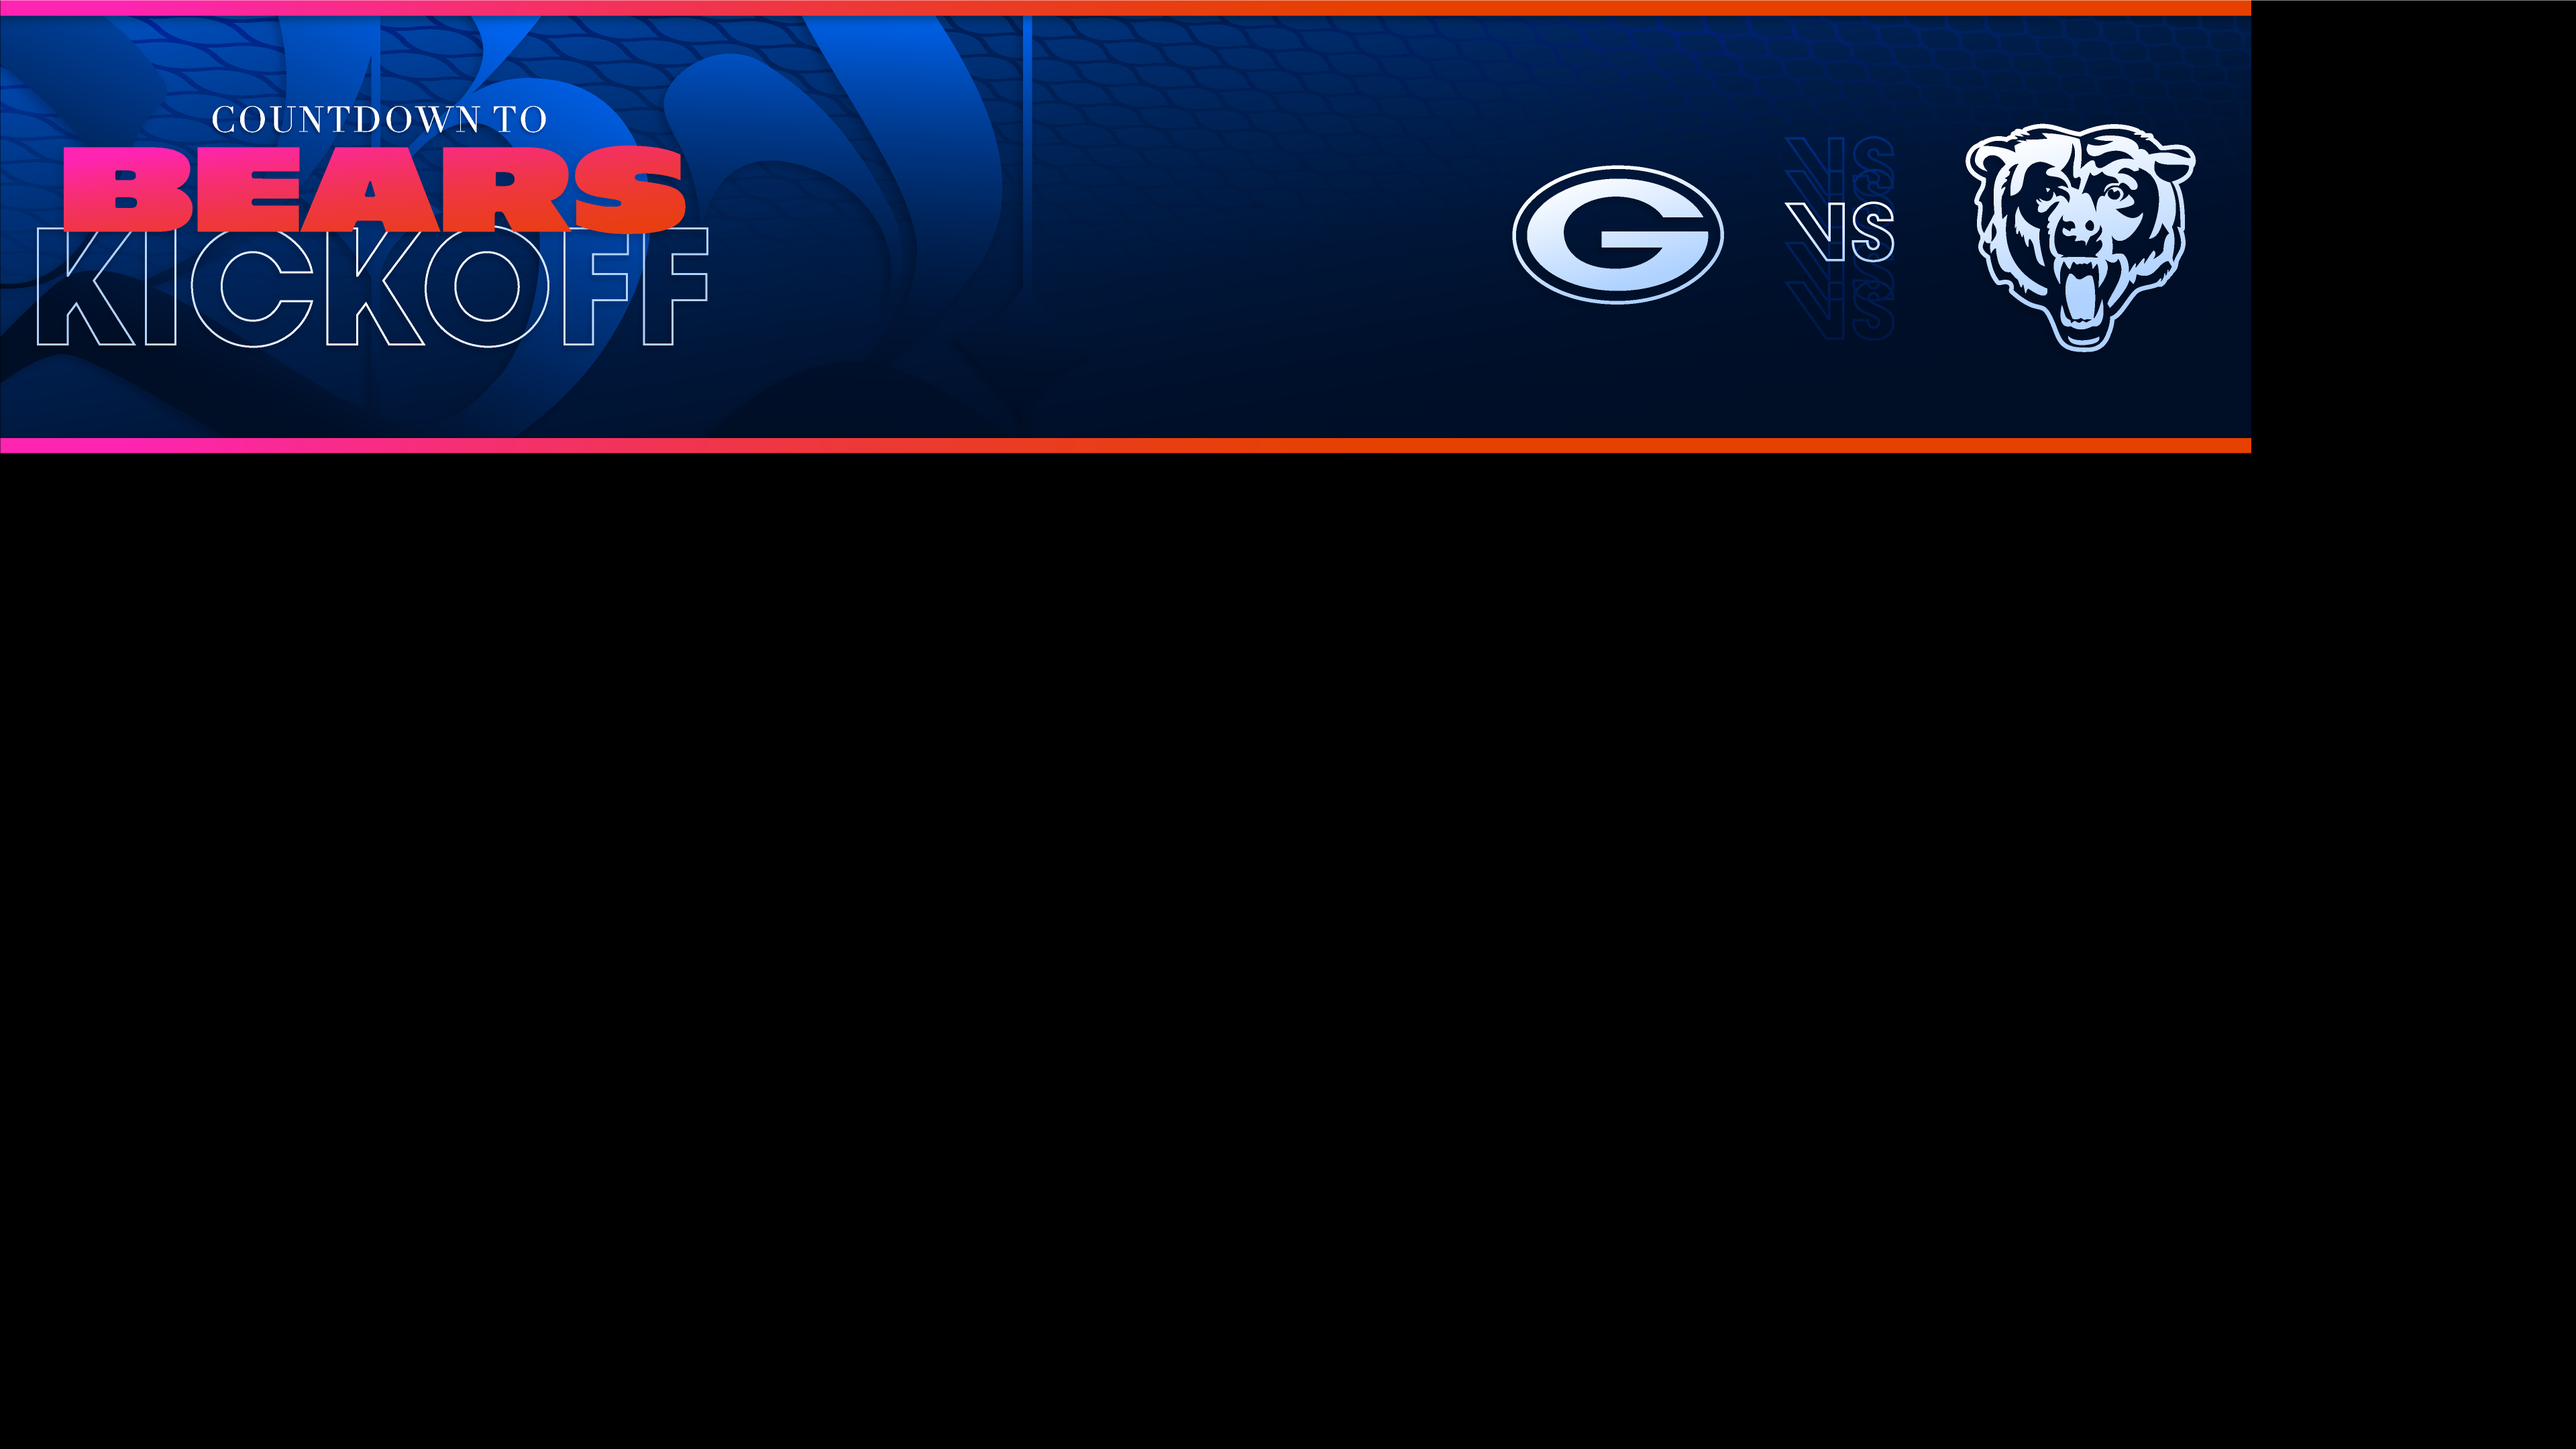
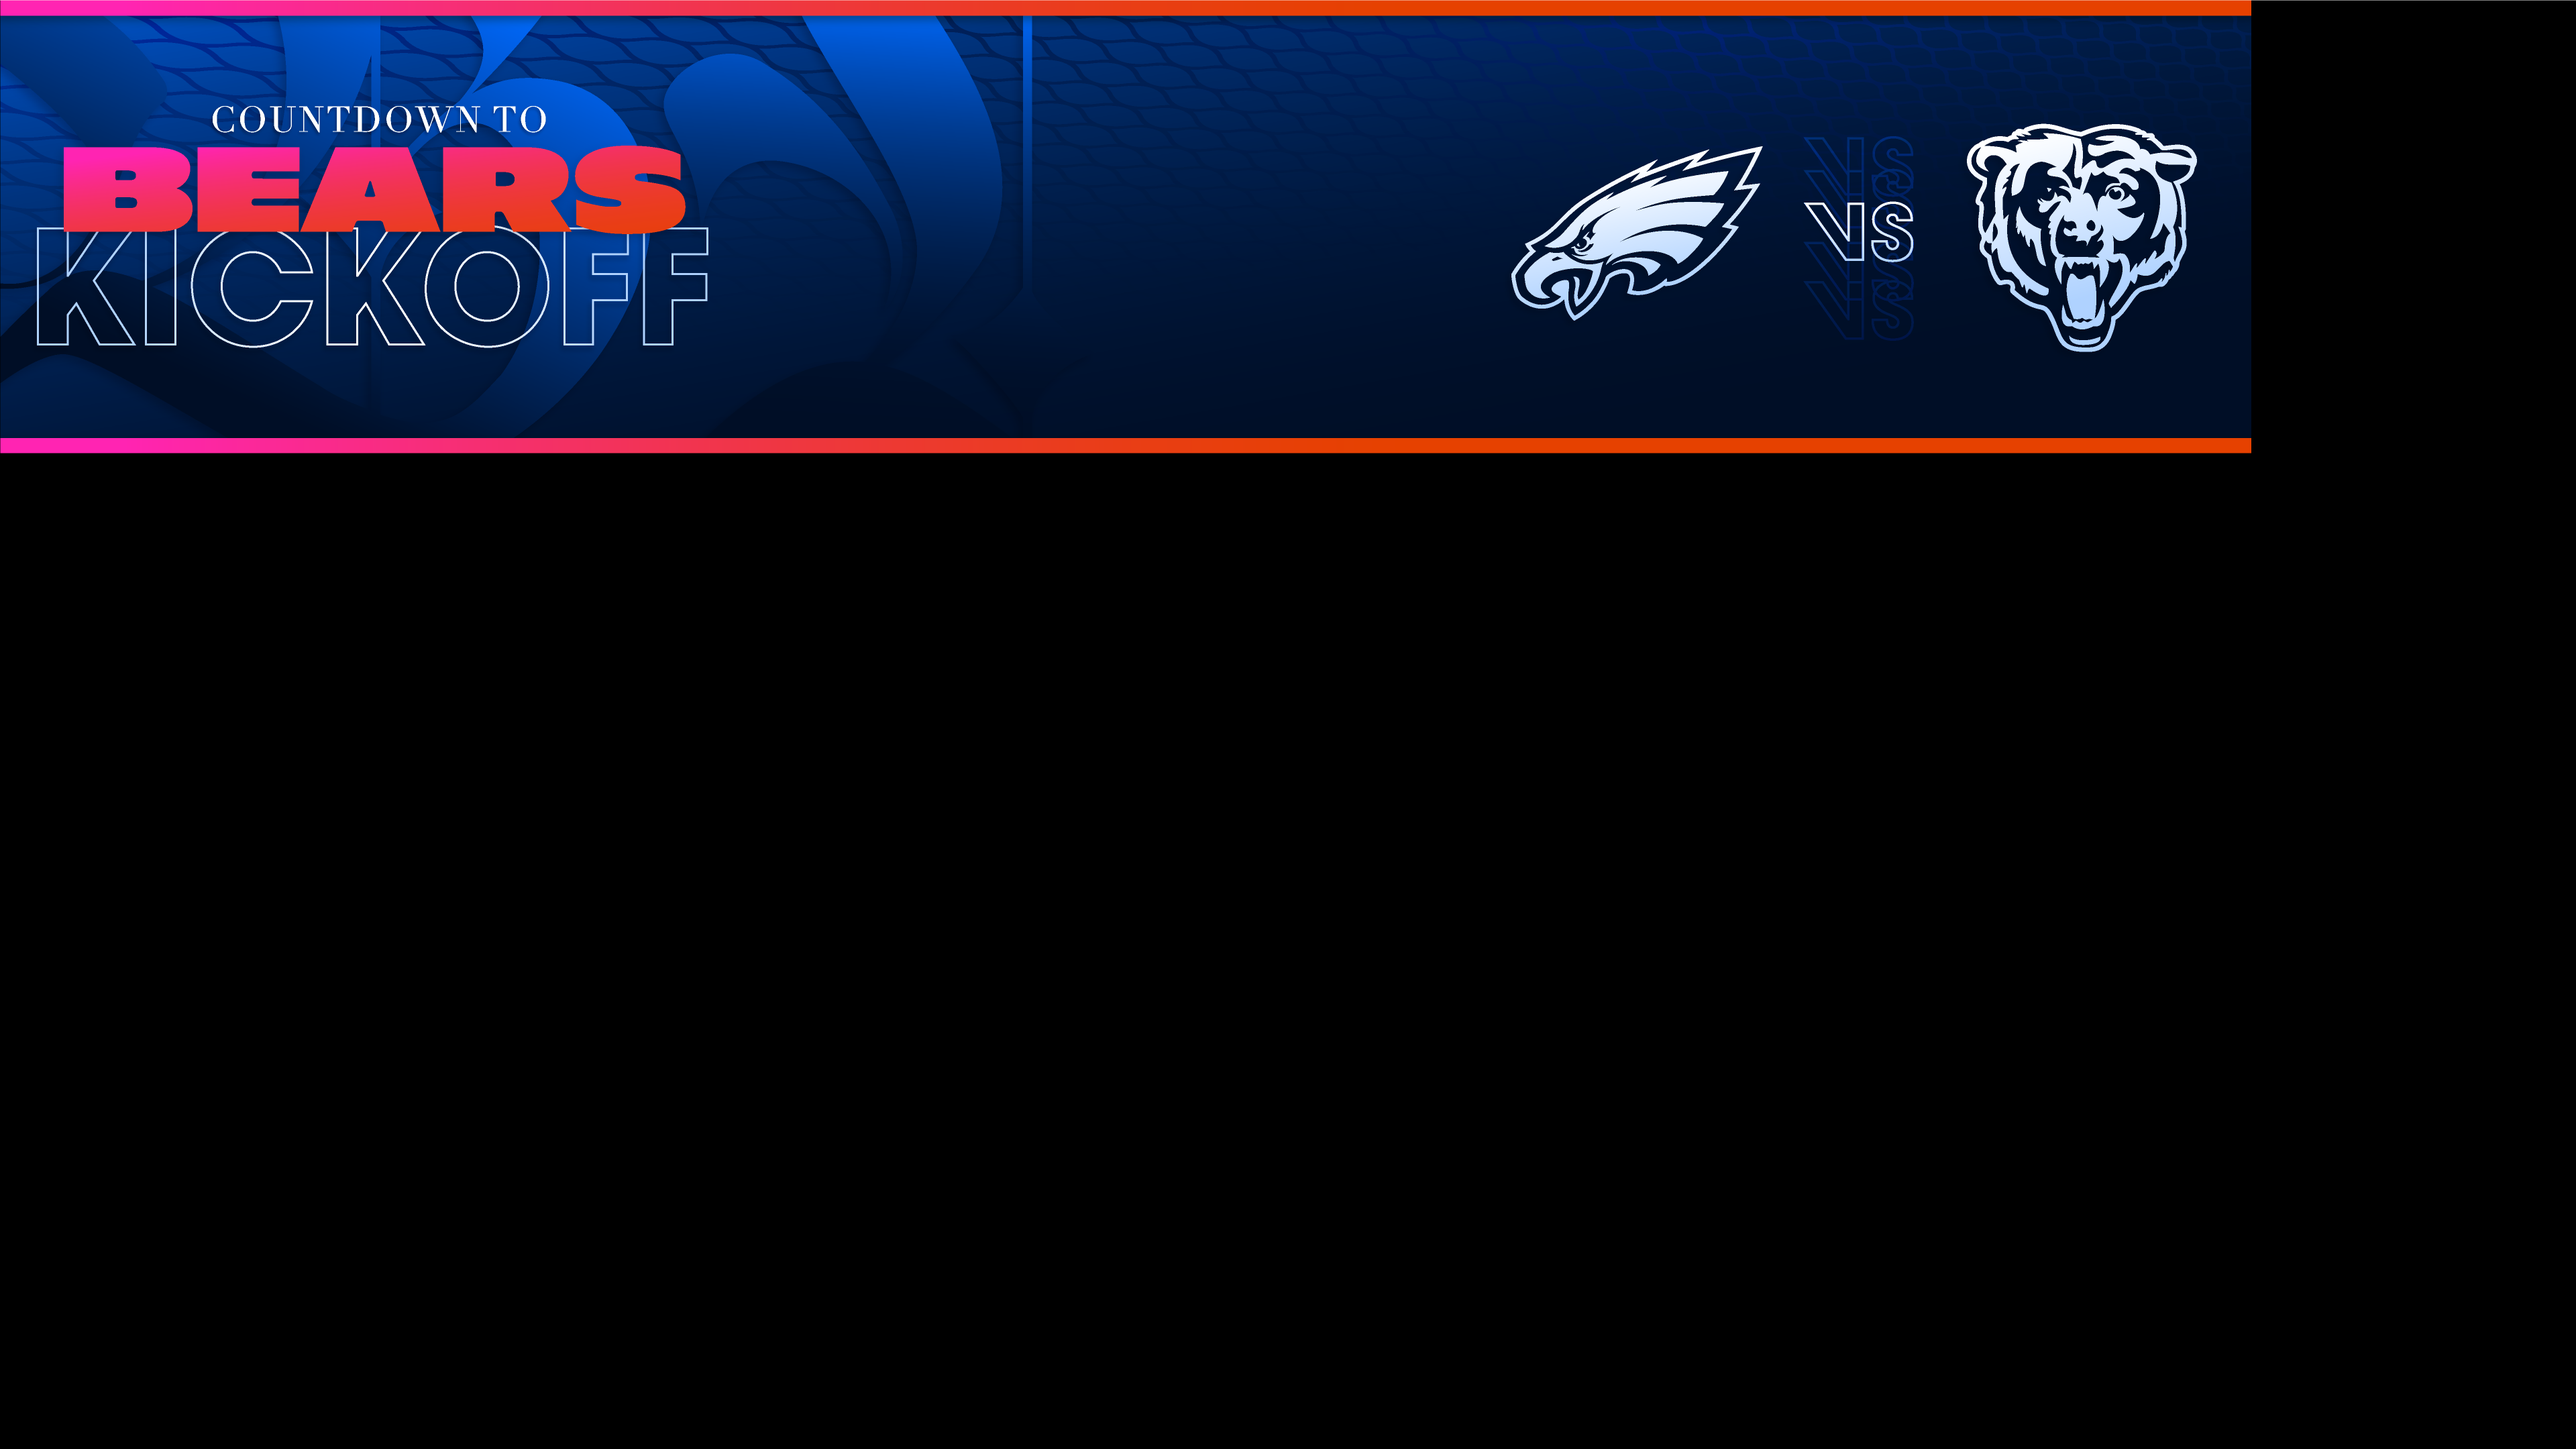
PHI game

Changed region(s): [[0.5938, 0.0931, 0.75, 0.2481], [0.7812, 0.0931, 0.8438, 0.2171]]

diff --git a/CurrentWeek/Horizontal/script/script.js b/CurrentWeek/Horizontal/script/script.js
@@ -68,9 +68,9 @@ $(document).ready(function(){
 			return futureFormattedDate
 		}
 		//USE 24HR MILITARY TIME
-		//GB
+		//PHI
 		$("#countdown").countdown({
-			date: "4 December 2022 12:00:00",
+			date: "18 December 2022 12:00:00",
 			format: "on"
 		});
 	});
